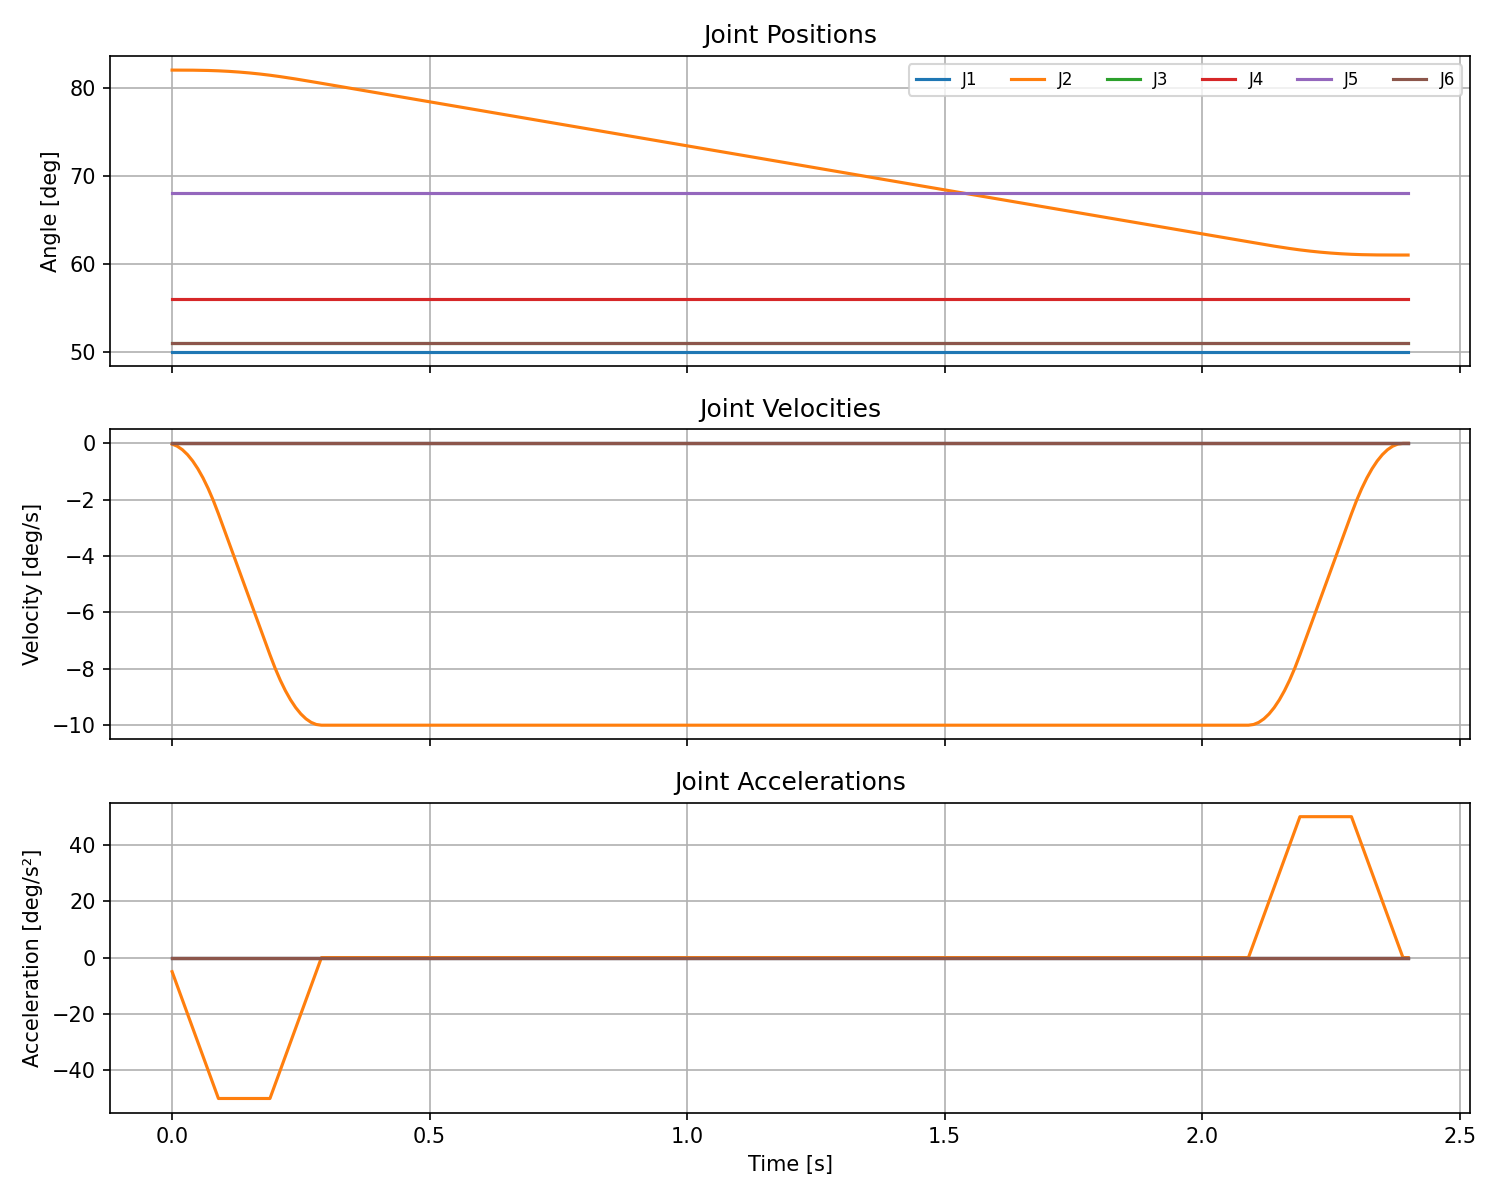
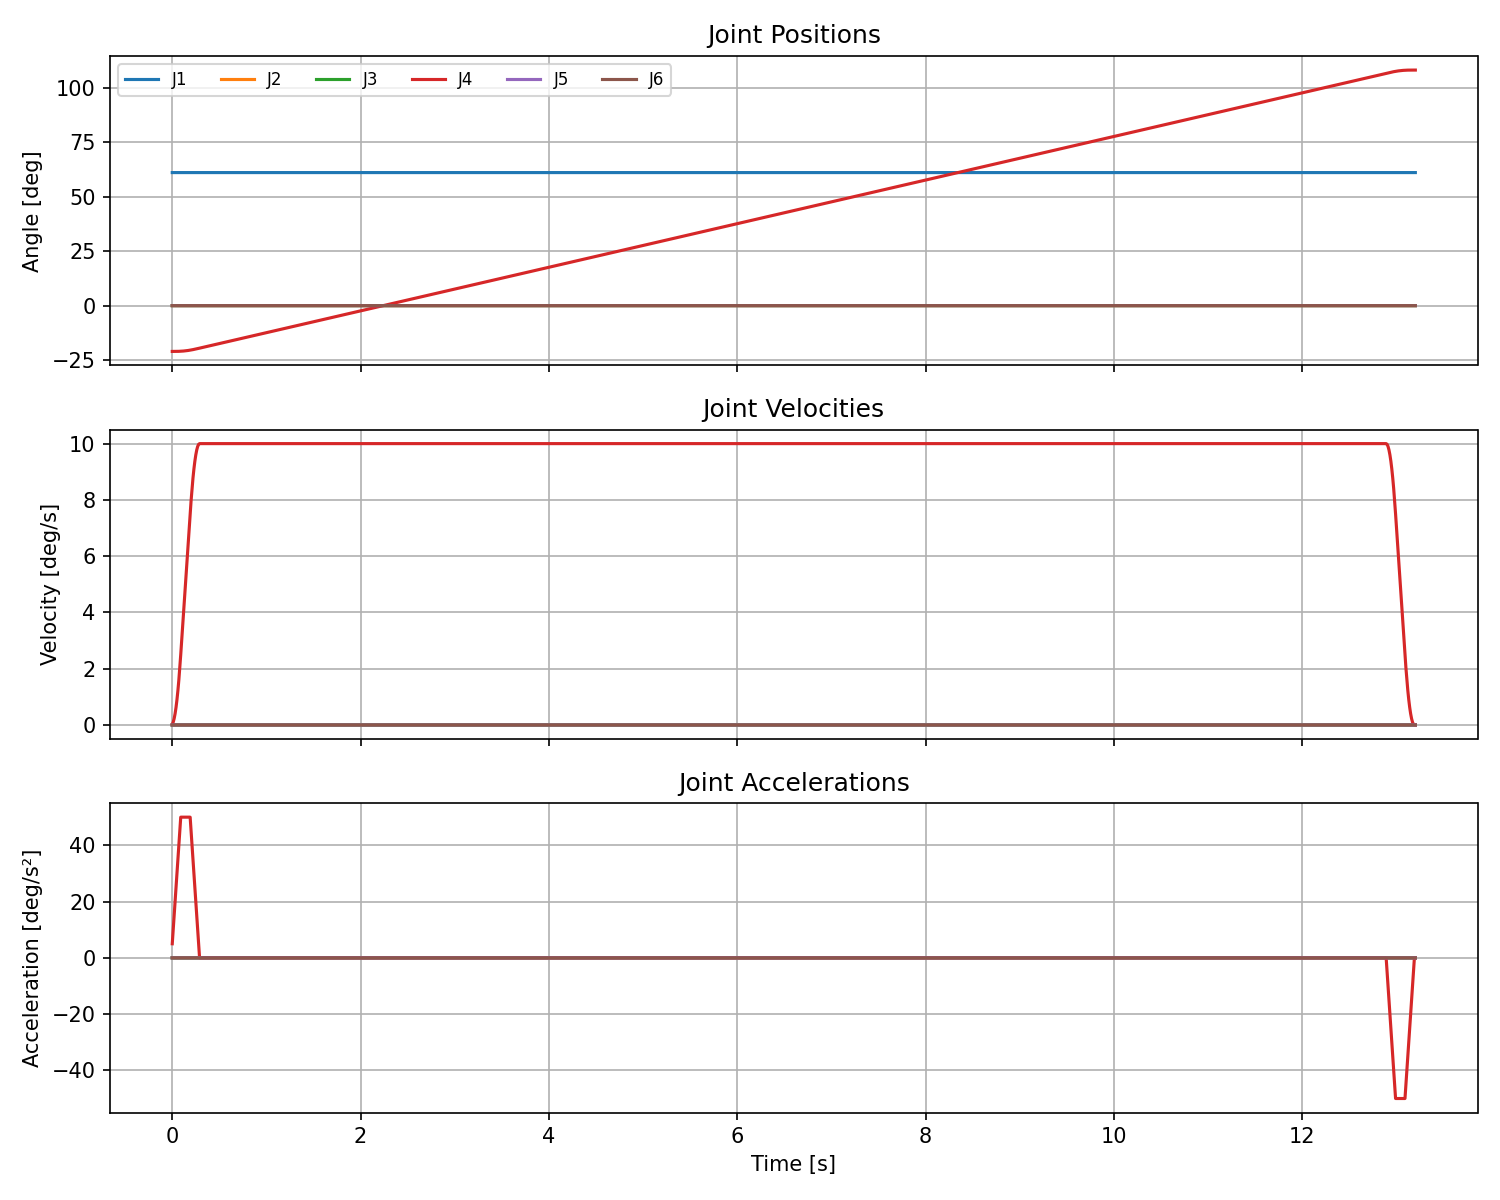
refactor

diff --git a/frontend/app.py b/frontend/app.py
@@ -159,7 +159,7 @@ def main() -> None:
                         traj = ji.run_interpolation(target_pos_deg, current_pos_deg=current_pos_deg)
 
                         # plot_trajectory should return a figure; fall back to image if it saves instead
-                        fig = plot_trajectory(traj, step_size=ji.step_size, dof=ji.dof)
+                        fig = plot_trajectory(traj, step_size=ji.step_size, dof=ji.dof,save_path="traj.png")
                         if fig is not None:
                             st.plotly_chart(fig, use_container_width=True)
                         st.session_state.current_pose_deg = target_pos_deg.copy()

diff --git a/backend/app/joint_interpolator.py b/backend/app/joint_interpolator.py
@@ -197,6 +197,7 @@ class JointInterpolator:
         return trajectory
 
 
+## Testing
 def main():
     ji = JointInterpolator(step_size=0.01, dof=6, max_acceleration=50, max_velocity=10, max_jerk=500.0) # Units: deg, deg/s, deg/s^2, deg/s^3
     target_pos_deg, min_deg, max_deg = ji.load_desired_arm_state_from_api_server()
